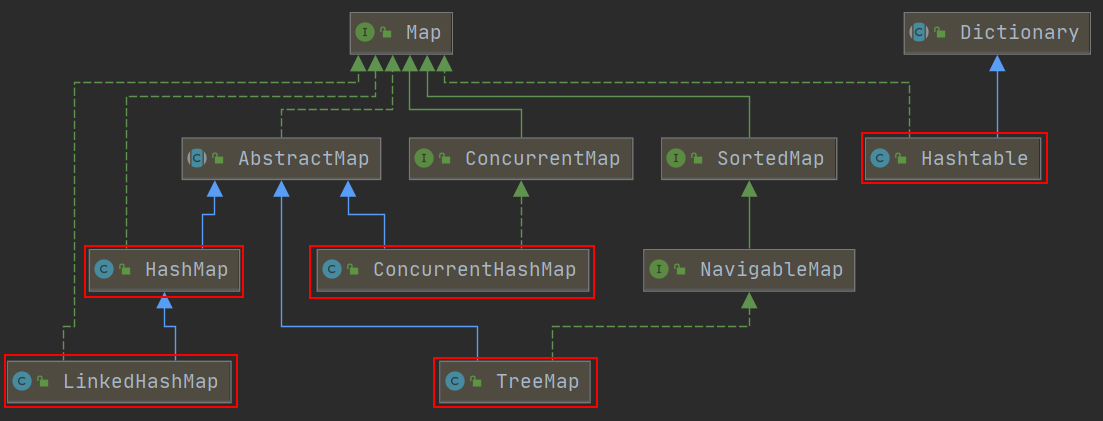
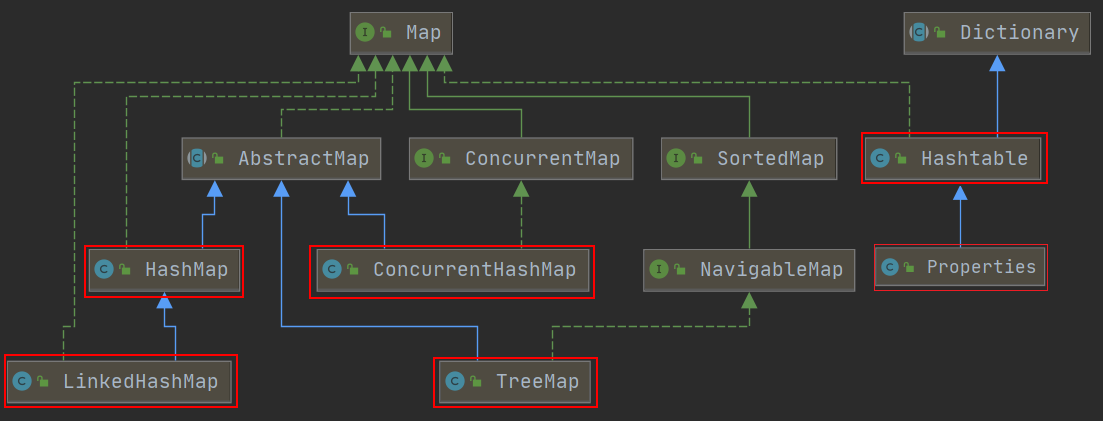
散列表

Changed region(s): [[0.7706, 0.5558, 0.9556, 0.6793], [0.8631, 0.4323, 0.8939, 0.4941]]

diff --git a/01_Java核心基础/01_Java基础编程.md b/01_Java核心基础/01_Java基础编程.md
@@ -132,7 +132,8 @@
       - [18.3.1.4. 数据结构](#18314-数据结构)
       - [18.3.1.5. public V put(K key, V value) 插入/更新](#18315-public-v-putk-key-v-value-插入更新)
       - [18.3.1.6. final Node<K,V>[] resize() 扩容](#18316-final-nodekv-resize-扩容)
-      - [18.3.1.7. 面试题](#18317-面试题)
+      - [18.3.1.7. public V get(Object key) 查询](#18317-public-v-getobject-key-查询)
+      - [18.3.1.8. 面试题](#18318-面试题)
     - [18.3.2. ConcurrentHashMap（jdk 1.7 源码）](#1832-concurrenthashmapjdk-17-源码)
     - [18.3.3. TreeMap](#1833-treemap)
       - [18.3.3.1. 红黑树](#18331-红黑树)
@@ -3143,6 +3144,7 @@ Externalizable 给我们提供 writeExternal() 和 readExternal() 方法, 这让
   - TreeMap
   - ConcurrentHashMap
   - Hashtable
+    - Properties
 
 - Iterator 接口：所有的集合类都实现了它，这是一个用于遍历集合中元素的接口。
   > hasNext() 是否还有下一个元素。
@@ -3271,8 +3273,17 @@ HashSet(int initialCapacity, float loadFactor, boolean dummy) {
 ![](/images/Map.png)
 
 HashMap、Hashtable、LinkedHashMap、TreeMap、ConcurrentHashMap。
+```
+Map 接口：Map不能包含重复的key，但是可以包含相同的value。
+ |-- HashMap
+        |-- LinkedHashMap
+ |-- TreeMap
+ |-- ConcurrentHashMap
+ |-- Hashtable
+        |-- Properties
+```
 
-- HashMap 数组(哈希表)+链表+红黑树
+- HashMap 数组(哈希表)+链表/红黑树
   HashMap是最常用的Map，它根据键的HashCode值存储数据，根据键可以直接获取它的值，具有很快的访问速度 o(1)。遍历时，取得数据的**顺序是完全随机**的。因为键对象不可以重复，所以HashMap最多**只允许一条记录的键为null**，允许多条记录的值为null，是**非同步的**。
 
 - Hashtable
@@ -3284,10 +3295,10 @@ HashMap、Hashtable、LinkedHashMap、TreeMap、ConcurrentHashMap。
 - LinkedHashMap
   LinkedHashMap **是有序的**，内部使用一个**链表**，有头尾节点。LinkedHashMap保存了**记录的插入顺序**，在用Iteraor遍历LinkedHashMap时，先得到的记录肯定是先插入的，在遍历的时候会比HashMap慢，有HashMap的全部特性。
   使用双向链表来维护元素的顺序，顺序为插入顺序或者最近最少使用（LRU）顺序。
+  适合频繁遍历的场景（具体场景？？？）。
 
 - TreeMap 基于红黑树实现
   TreeMap实现SortMap接口，能够把它保存的记录**根据键排序**，默认是按键值的升序排序（自然顺序），也可以**指定排序的比较器**，当用Iterator遍历TreeMap时，得到的记录是排过序的。不允许key值为空，**非同步的**。
-
 
 **HashMap和Hashtable的区别**
 1、HashMap是非同步的；Hashtable是同步的
@@ -3330,11 +3341,11 @@ AbstractMap 实现了键值对的通用函数接口
 
 #### 18.3.1.1. 重要属性和常量
 属性：
-- loadFactor 负载因子
-- threshold  扩容极限
-- size       键值对数量
+- loadFactor 负载因子   0.75
+- threshold  扩容极限   24 = loadFactor * table.length
+- size       键值对数量 >= 12
 - modCount   修改次数
-- table      散列数组
+- table      散列数组   32
 ```java
 /**
  * The next size value at which to resize (capacity * load factor).
@@ -3407,15 +3418,15 @@ static final int MAXIMUM_CAPACITY = 1 << 30;
 ```
 
 #### 18.3.1.2. 构造器 (4个)
-**两个参数：初始容量和加载因子。**
-容量是HashMap中桶的数量；加载因子是HashMap在其容量自动增加之前可以达到多满的一种尺度。当键值对的数量超过加载因子与当前容量之积（即使用了百分之多少的桶），就要对HashMap进行 rehash 操作（重建内部数据结构），重建之后HashMap将具有之前两倍的桶数目。
+**两个参数：初始容量和负载因子。**
+容量是HashMap中桶的数量；负载因子是HashMap在其容量自动增加之前可以达到多满的一种尺度。当键值对的数量超过负载因子与当前容量之积（即使用了百分之多少的桶），就要对HashMap进行 rehash 操作（重建内部数据结构），重建之后HashMap将具有之前两倍的桶数目。
 
 **【HashMap怎么设定初始容量大小】**
 默认初始容量大小是16，负载因子是 0.75。
 如果传入初始容量 n，则初始容量设定为 大于等于 n 的 2的整数次幂。
 
 ```java
-// 指定“容量大小”和“加载因子”的构造函数
+// 指定“容量大小”和“负载因子”的构造函数
 /**
  * 使用指定的初始容量和负载因子构造一个空的HashMap.
  * @param  initialCapacity 初始容量.
@@ -3429,6 +3440,7 @@ public HashMap(int initialCapacity, float loadFactor) {
         initialCapacity = MAXIMUM_CAPACITY;
     if (loadFactor <= 0 || Float.isNaN(loadFactor))
         throw new IllegalArgumentException("Illegal load factor: " + loadFactor);
+
     this.loadFactor = loadFactor;
     this.threshold = tableSizeFor(initialCapacity);
 }
@@ -3474,7 +3486,7 @@ public HashMap(Map<? extends K, ? extends V> m) {
  */
 static final int tableSizeFor(int cap) {
     int n = cap - 1;
-    n |= n >>> 1;
+    n |= n >>> 1; // n = n | (n >>> 1)
     n |= n >>> 2;
     n |= n >>> 4;
     n |= n >>> 8;
@@ -3482,6 +3494,7 @@ static final int tableSizeFor(int cap) {
     return (n < 0) ? 1 : (n >= MAXIMUM_CAPACITY) ? MAXIMUM_CAPACITY : n + 1;
 }
 ```
+
 解释：
 |||
 |-|-|
@@ -3527,10 +3540,12 @@ System.out.println(tableSizeFor(4096)); // 4096
 > ![](/images/tableSizeFor.png)
 > 注意 return 少个 +1
 
-`>>` 右移：规则是低位移出，高位补符号位。
+`>>` 右移：规则是低位移出，高位补符号位。正数 0，负数 1
 `>>>` 无符号右移：高位始终补0。
 
 #### 18.3.1.3. 哈希函数
+Hash(x) = (x.hashCode()>>>16 ^ x.hashCode()) % n;
+
 设计要点
 - 扰动函数：尽可能降低hash碰撞，越分散越好；
 - 算法一定要尽可能高效，因为这是高频操作, 因此采用位运算；
@@ -3559,8 +3574,8 @@ static final int hash(Object key) {
 // jdk 1.8 被删除了
 bucketIndex = indexFor(hash, table.length);
 static int indexFor(int h, int length) {
-     return h & (length-1);
-     // h % length  ==  h & (length-1)
+    return h & (length-1);
+    // h % length  ==  h & (length-1)
 }
 // jdk 1.8 的操作
 tab[i = (n - 1) & hash])
@@ -3579,7 +3594,7 @@ tab[i = (n - 1) & hash])
 #### 18.3.1.4. 数据结构
 jdk 1.8 ：内部使用数组 + 链表/红黑树
 ![img](https://pic3.zhimg.com/80/v2-4ce38fd1c36fc61e70d7687fae997e5a_720w.jpg) 
-当链表长度大于 8 时，转为红黑树；当红黑树节点小于 6 时，转为链表。
+当链表长度大于 8 且 数组长度大于等于 64 时，转为红黑树；当红黑树节点小于 6 时，转为链表。
 
 ```java
 static class Node<K,V> implements Map.Entry<K,V> {
@@ -3646,7 +3661,7 @@ Node<K,V> next; // 链表 next 指针
    1. 是红黑树，则放入红黑树节点
    2. 是链表，则加入链表中
 6. 链表则要判断是否要转为红黑树。
-7. 红黑树则要判断是否需要扩容。
+7. 判断是否需要扩容。
 <!-- ![](https://pic4.zhimg.com/80/v2-ff5fe3aac820fafb4cf34b2a801877cf_720w.jpg) -->
 ![](https://pic3.zhimg.com/80/58e67eae921e4b431782c07444af824e_720w.png)
 
@@ -3747,14 +3762,14 @@ public class HashMapGet {
 }
 ```
 
-**什么样的数据类型可以作为 Key?**
+**什么样的数据类型（类）可以作为 Key?**
 1. 重写 hashcode 和 equals 方法，且遵循以下原则：equals 相等 -> hashcode 一定相等。
-2. 该类的对象具有不可变性。或者成员变量的改变不会引起 hashcode 的改变，以及 equals 的结果。
+2. 该类的对象具有不可变性（否则会丢失这个键值对，造成内存泄漏）。或者成员变量的改变不会引起 hashcode 的改变，以及 equals 的结果。
 
 #### 18.3.1.8. 面试题
 
 **jdk 1.8 后的改进**
-1. 数组+链表 改进为 数组+链表或红黑树
+1. 数组+链表 改进为 数组+链表/红黑树
 2. 链表插入方式 头插法 改进为 尾插法
 3. 插入数据时，1.7 先判断是否要扩容，再插入；1.8 先插入，再判断
 4. 1.7 扩容时需要对原数组的元素重新进行 哈希定位；1.8 则要么位置不变，要么向后移动一个旧容量大小。
@@ -3765,7 +3780,7 @@ public class HashMapGet {
 
 **HashMap是线程安全的吗？**
 不是，在多线程环境下，1.7 会产生死循环、数据丢失、数据覆盖的问题，1.8 中会有数据覆盖的问题。
-线程安全的：HashTable、ConcurrentHashMap、Collections.synchronizedMap
+线程安全的：Hashtable、ConcurrentHashMap、Collections.synchronizedMap
 - HashTable是直接在操作方法上加synchronized关键字，锁住整个数组，锁粒度比较大。
 - Collections.synchronizedMap是使用Collections集合工具的内部类，通过传入Map封装出一个SynchronizedMap对象，内部定义了一个对象锁，方法通过对象锁实现线程安全。
 - ConcurrentHashMap使用分段锁，降低了锁粒度，让并发度大大提高。

diff --git a/04_计算机基础理论/01_数据结构与算法.md b/04_计算机基础理论/01_数据结构与算法.md
@@ -506,6 +506,41 @@ B+树每个非叶子结点存放的元素只用于索引作用，所有数据保
 使用一个下标范围比较大的数组来存储元素。
 设计一个函数 $f$（哈希函数，散列函数），使得可以通过元素的值找到元素存储位置的下标，即 $元素下标值 = f(元素值)$
 
+数组大小 5
+        12 15 37 64 42 52
+Hash(x) = x % n
+对5取余  2  0  2  4  2  2
+|0|1|2|3|4|
+|-|-|-|-|-|
+|15| |12/37||64|
+
+开放定址法：g(x) = (x+1) % n
+|0|1|2|3|4|
+|-|-|-|-|-|
+|15|42|12|37|64|
+
+get(62)
+
+```
+get(k) {
+    p0 = hash(k); // k % n
+
+    if (arr[p0] == k) {
+        return p0;
+    }
+
+    for (int p = g(p0);;p = g(p)){
+        if(arr[p] == k) {
+            return p;
+        }else if(arr[p] == null || p == p0) {
+            未找到
+            break;
+        }
+    }
+}
+```
+
+
 ### 1.5.1. 哈希冲突的解决方法
 
 **1、开放定址法**
@@ -520,10 +555,12 @@ $H_i = (Hash(key) + d_i) \% m$，其中 $i=1, 2, ..., n$
 - 线性探查：冲突发生时，顺序查看表中下一单元，直到找出一个空单元或查遍全表。
 $$d_i=1, 2, 3, ..., m-1$$
 
+<s>
 - 二次探测再散列：冲突发生时，在表的左右进行跳跃式探测，比较灵活。
 $$d_i=1^2, -1^2, 2^2, -2^2, ..., k^2, -k^2 (k \leq \frac{m}{2})$$
 
 - 伪随机探测再散列 $d_i=$ 伪随机数序列。
+</s>
 
 
 **2、再哈希法（再散列法）**
@@ -1683,14 +1720,33 @@ class Solution {
 
 方法二：一次遍历+HashMap
 方法一的时间复杂度较高的原因是寻找 target - x 的时间复杂度过高。使用哈希表，可以将时间复杂度降低到从 $O(n)$ 降低到 $O(1)$。
+
+```
+n = nums.length;
+arr[n];
+for (int i = 0; i < nums.length; i++) {
+    数组 nums 中是否存在一个元素 x = target - nums[i];
+    if true: return;
+    else arr[nums[i] % n] = nums[i];
+}
+
+[2, 7, 11, 15], target = 9
+
+2 7
+Hash(x=2)
+arr 0 1 2 3
+        2
+```
+
 ```java
 class Solution {
     public int[] twoSum(int[] nums, int target) {
         Map<Integer, Integer> map = new HashMap<Integer, Integer>();
         for (int i = 0; i < nums.length; i++) {
-            int complement = target - nums[i];
-            if (map.containsKey(complement)) {
-                return new int[] {map.get(complement), i};
+            // 数组 nums 中是否存在一个元素 x = target - nums[i];
+            int x = target - nums[i];
+            if (map.containsKey(x)) {
+                return new int[] {map.get(x), i};
             }
             map.put(nums[i], i);
         }
